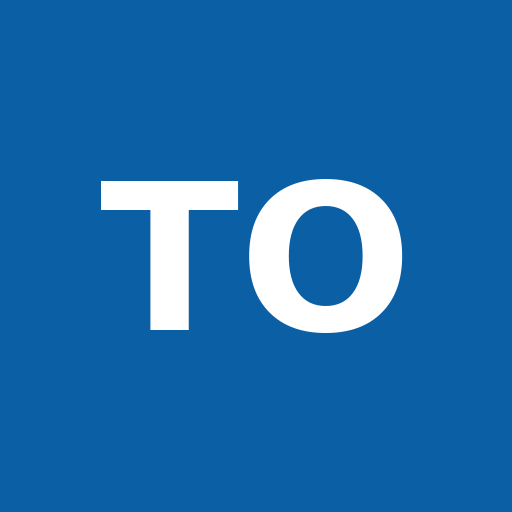
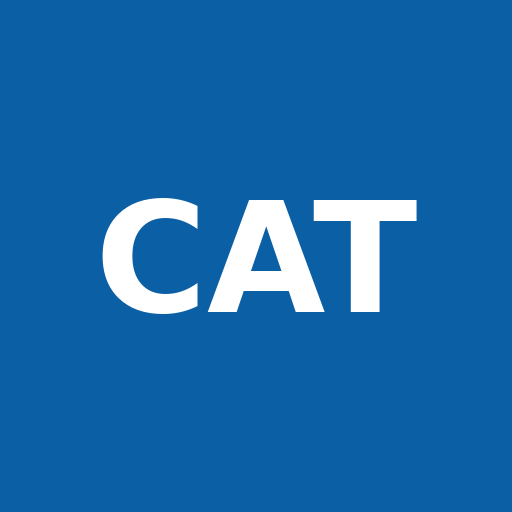
Renombrar app a TO CAT en encabezado, manifest PWA, icono y titulo de pestana

Changed region(s): [[0.1875, 0.3438, 0.8125, 0.6562]]

diff --git a/vite.config.js b/vite.config.js
@@ -10,8 +10,8 @@ export default defineConfig({
       registerType: 'autoUpdate',
       includeAssets: ['icon-192.png', 'icon-512.png'],
       manifest: {
-        name: 'TO Alemana',
-        short_name: 'TO Alemana',
+        name: 'TO CAT',
+        short_name: 'TO CAT',
         description: 'Gestión diaria de pacientes - Clínica Alemana Temuco',
         theme_color: '#0B5FA5',
         background_color: '#F4F6F8',

diff --git a/index.html b/index.html
@@ -4,7 +4,7 @@
     <meta charset="UTF-8" />
     <link rel="icon" type="image/svg+xml" href="/favicon.svg" />
     <meta name="viewport" content="width=device-width, initial-scale=1.0" />
-    <title>app</title>
+    <title>TO CAT</title>
   </head>
   <body>
     <div id="root"></div>

diff --git a/src/App.jsx b/src/App.jsx
@@ -318,7 +318,7 @@ function App() {
   return (
     <div className="contenedor">
       <header className="encabezado">
-        <h1>TO Alemana</h1>
+        <h1>TO CAT</h1>
         <div className="fechas">
           <p className="fecha-dato">
             {fechaDatos ? `Pacientes del ${formatearFechaLegible(fechaDatos)}` : 'Sin datos cargados'}